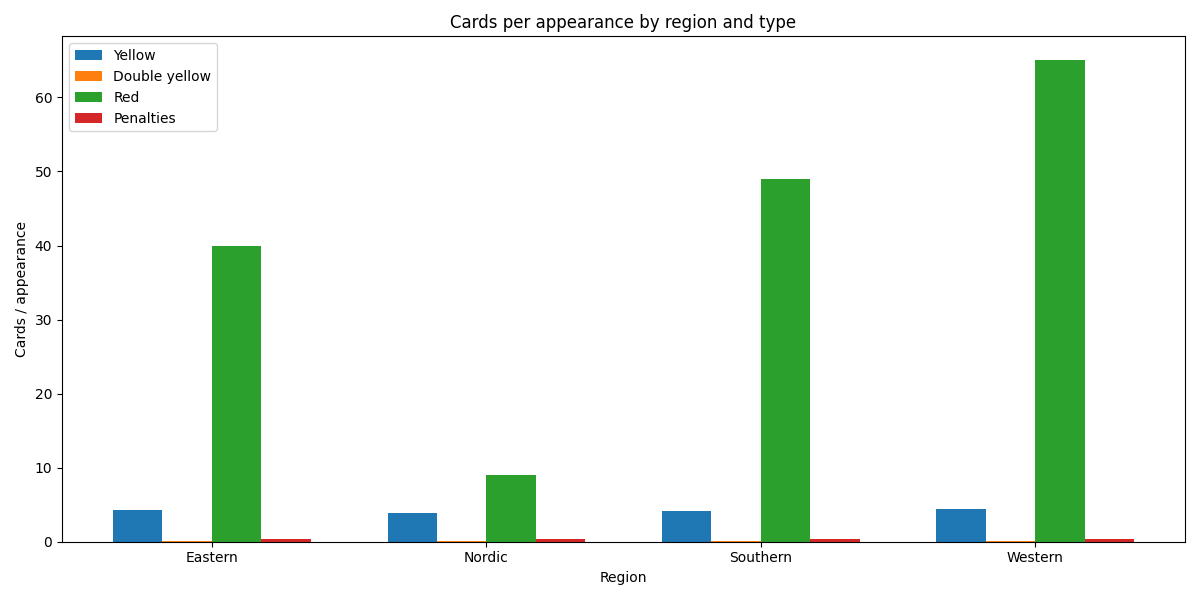
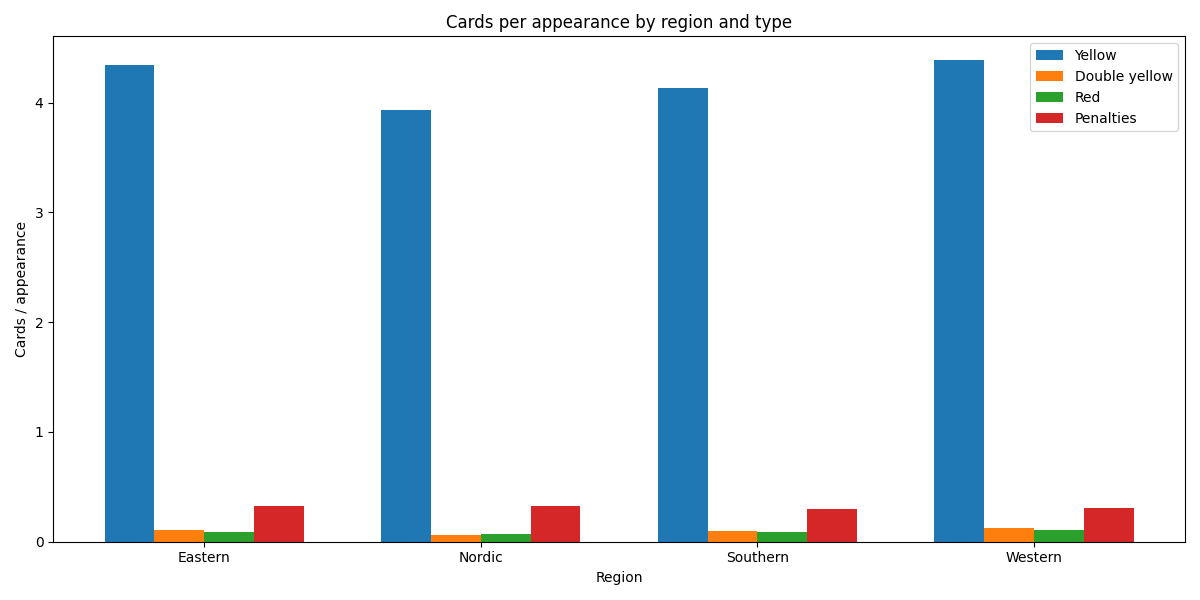
Fix wrong column plot

diff --git a/src/utils/python/aggregate_countries.py b/src/utils/python/aggregate_countries.py
@@ -92,7 +92,7 @@ width = 0.18
 plt.figure(figsize=(12, 6))
 plt.bar(x - 1.5*width, aggregated_regions['yc_per_appearance'],   width, label='Yellow')
 plt.bar(x - 0.5*width, aggregated_regions['yyc_per_appearance'],  width, label='Double yellow')
-plt.bar(x + 0.5*width, aggregated_regions['red_cards'],   width, label='Red')
+plt.bar(x + 0.5*width, aggregated_regions['rc_per_appearance'],   width, label='Red')
 plt.bar(x + 1.5*width, aggregated_regions['penalties_per_appearance'], width, label='Penalties')
 plt.xticks(x, aggregated_regions.index)
 plt.ylabel('Cards / appearance')
